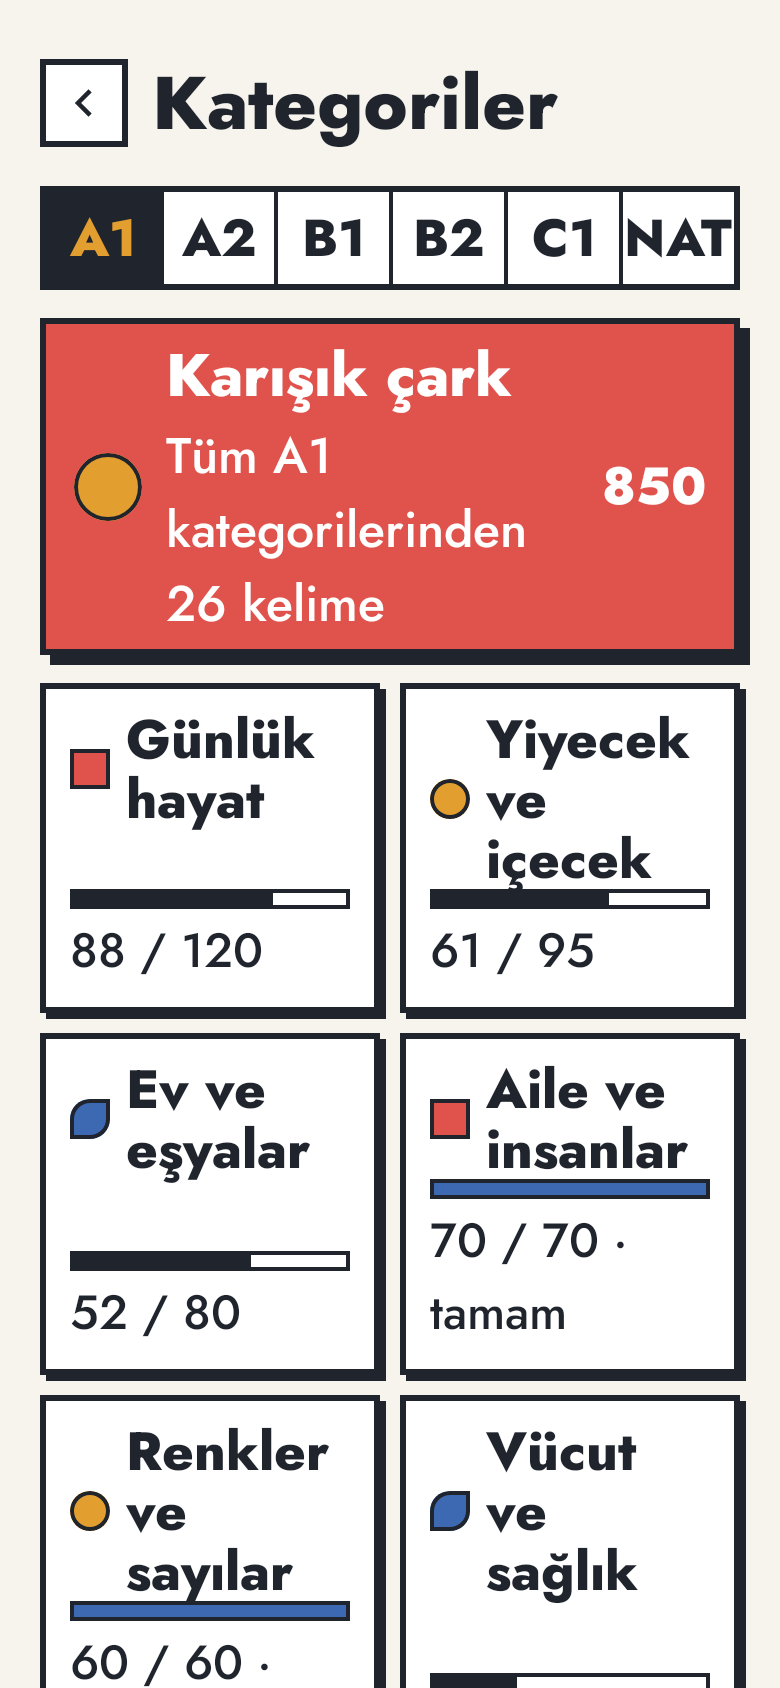
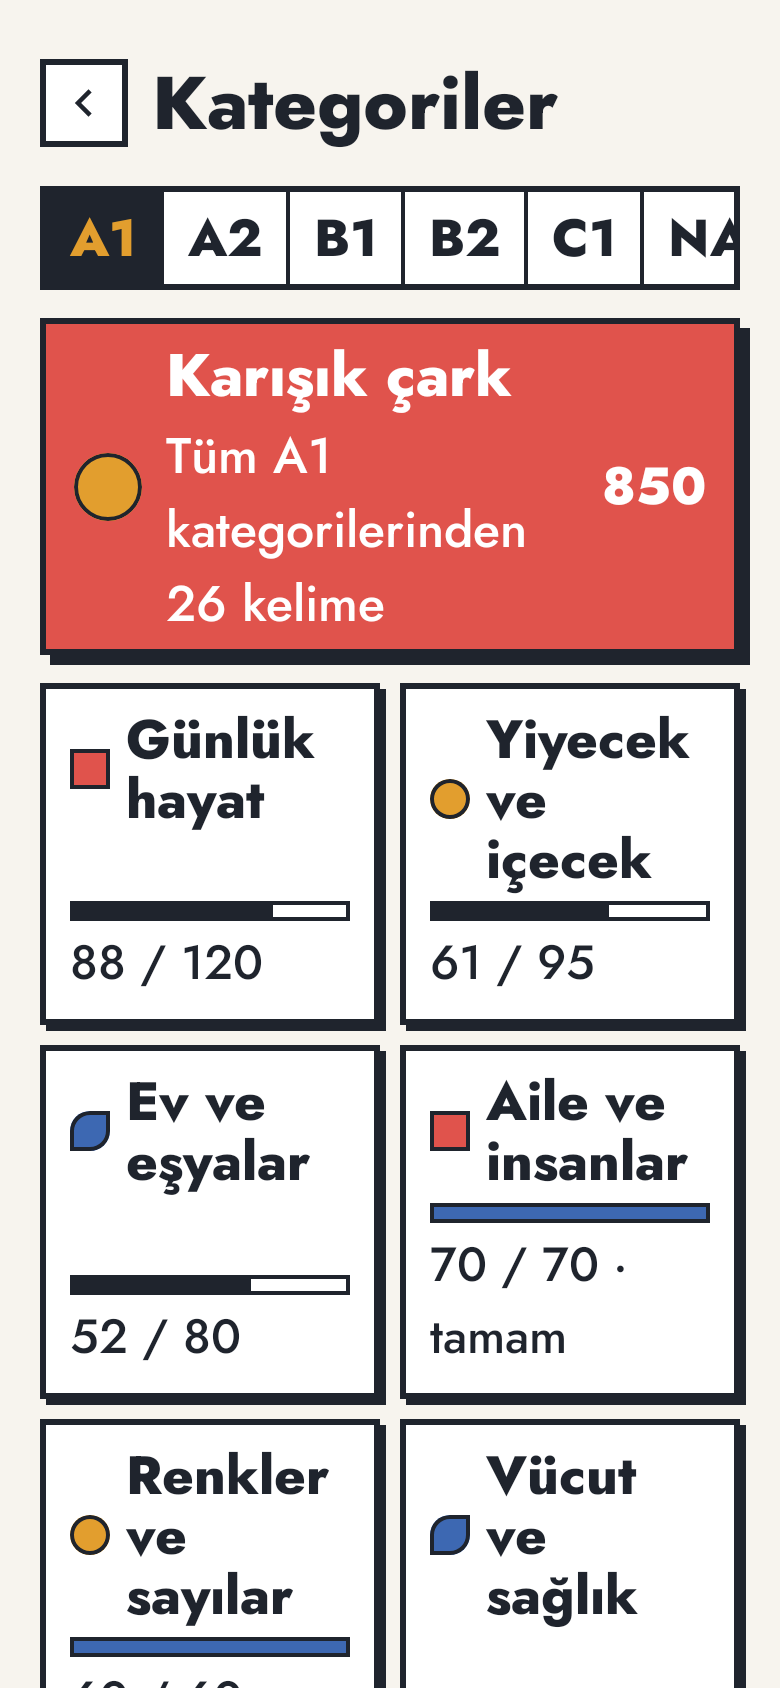
fix(a11y): contrast and large-font spacing follow-ups
- Add LexiColors.redText #D42D25 (hue/saturation of red E0534C, darkened):
  5.00:1 on white FFFFFF, 4.55:1 on cream F7F4EE. Text-only token.
- TimerBar warning counter: redText on the white track, ink (two-layer,
  clipped to the fill) where the red fill runs under it; motion #8 colour
  change preserved. New golden TimerBarWarningOverFill; timer warning
  goldens re-recorded.
- Selected level card and mixed-wheel card are white on red fill: accepted
  exception, documented in screen-map.md with the used-key/disabled ones.
- 200% font: gap between category name and progress bar (above 1.5x only),
  one-letter weekday chart labels from 1.5x (TR/EN resources), scrollable
  level tabs on Categories above 1.75x. 1.0 and 1.3 goldens unchanged.

Changed region(s): [[0.0308, 0.5237, 0.9538, 1.0], [0.2462, 0.0924, 0.9538, 0.1848]]

diff --git a/core/designsystem/src/commonMain/kotlin/dev/talhabayhan/lexi/core/designsystem/component/Controls.kt b/core/designsystem/src/commonMain/kotlin/dev/talhabayhan/lexi/core/designsystem/component/Controls.kt
@@ -2,6 +2,7 @@ package dev.talhabayhan.lexi.core.designsystem.component
 
 import androidx.compose.foundation.BorderStroke
 import androidx.compose.foundation.background
+import androidx.compose.foundation.horizontalScroll
 import androidx.compose.foundation.layout.Arrangement
 import androidx.compose.foundation.layout.Box
 import androidx.compose.foundation.layout.Column
@@ -15,17 +16,23 @@ import androidx.compose.foundation.layout.offset
 import androidx.compose.foundation.layout.padding
 import androidx.compose.foundation.layout.size
 import androidx.compose.foundation.layout.width
+import androidx.compose.foundation.relocation.BringIntoViewRequester
+import androidx.compose.foundation.relocation.bringIntoViewRequester
+import androidx.compose.foundation.rememberScrollState
 import androidx.compose.foundation.selection.selectable
 import androidx.compose.foundation.selection.selectableGroup
 import androidx.compose.foundation.selection.toggleable
 import androidx.compose.material3.Text
 import androidx.compose.runtime.Composable
 import androidx.compose.runtime.Immutable
+import androidx.compose.runtime.LaunchedEffect
+import androidx.compose.runtime.remember
 import androidx.compose.ui.Alignment
 import androidx.compose.ui.Modifier
 import androidx.compose.ui.draw.drawBehind
 import androidx.compose.ui.geometry.Size
 import androidx.compose.ui.graphics.Color
+import androidx.compose.ui.platform.LocalDensity
 import androidx.compose.ui.semantics.ProgressBarRangeInfo
 import androidx.compose.ui.semantics.Role
 import androidx.compose.ui.semantics.contentDescription
@@ -71,11 +78,16 @@ public object ControlDefaults {
 
     /** Line height of a segment with a subtitle (`line-height: 1.1`). */
     internal const val SEGMENT_TWO_LINE_HEIGHT: Double = 1.1
+
+    /** System font scale above which a control that opted in ([SegmentedControl] `scrollable`) scrolls sideways. */
+    public const val SCROLL_FONT_SCALE: Float = 1.75f
 }
 
 /**
  * Segmented control: 3dp ink frame on white, equal segments separated by [dividerWidth] ink lines (part of the
  * segment, as the CSS `border-left`); selected = ink with yellow title (cream subtitle). Light haptic + tap on select.
+ * With [scrollable], font scales above [ControlDefaults.SCROLL_FONT_SCALE] let the segments keep their natural width
+ * and the row scroll sideways (the selected one is brought into view) instead of squeezing them against each other.
  */
 @Composable
 public fun SegmentedControl(
@@ -85,8 +97,15 @@ public fun SegmentedControl(
     modifier: Modifier = Modifier,
     height: Dp = ControlDefaults.SegmentHeight,
     dividerWidth: Dp = LexiTheme.borders.thin,
+    scrollable: Boolean = false,
 ) {
     val colors = LexiTheme.colors
+    val scrolling = scrollable && LocalDensity.current.fontScale > ControlDefaults.SCROLL_FONT_SCALE
+    val scrollState = rememberScrollState()
+    val requesters = remember(segments.size) { List(segments.size) { BringIntoViewRequester() } }
+    if (scrolling) {
+        LaunchedEffect(selectedIndex) { requesters.getOrNull(selectedIndex)?.bringIntoView() }
+    }
     val typography = LexiTheme.typography
     val haptics = LocalHaptics.current
     val sounds = LocalSoundPlayer.current
@@ -95,13 +114,15 @@ public fun SegmentedControl(
         modifier = modifier
             .height(IntrinsicSize.Min)
             .lexiSurface(colors.white, BorderStroke(LexiTheme.borders.regular, colors.ink))
-            .selectableGroup(),
+            .selectableGroup()
+            .then(if (scrolling) Modifier.horizontalScroll(scrollState) else Modifier),
     ) {
         segments.forEachIndexed { index, segment ->
             val selected = index == selectedIndex
             Column(
                 modifier = Modifier
-                    .weight(1f)
+                    .then(if (scrolling) Modifier else Modifier.weight(1f))
+                    .bringIntoViewRequester(requesters[index])
                     .fillMaxHeight()
                     .heightIn(min = height)
                     .then(if (index > 0) Modifier.leftBorder(dividerWidth, colors.ink) else Modifier)
@@ -110,7 +131,8 @@ public fun SegmentedControl(
                         haptics.perform(HapticKind.Light)
                         sounds.play(SoundEffect.Tap)
                         onSelect(index)
-                    },
+                    }
+                    .then(if (scrolling) Modifier.padding(horizontal = LexiTheme.dimens.gap12) else Modifier),
                 horizontalAlignment = Alignment.CenterHorizontally,
                 verticalArrangement = Arrangement.Center,
             ) {

diff --git a/feature/stats/src/commonMain/kotlin/dev/talhabayhan/lexi/feature/stats/StatsScreen.kt b/feature/stats/src/commonMain/kotlin/dev/talhabayhan/lexi/feature/stats/StatsScreen.kt
@@ -18,6 +18,7 @@ import androidx.compose.material3.Text
 import androidx.compose.runtime.Composable
 import androidx.compose.ui.Alignment
 import androidx.compose.ui.Modifier
+import androidx.compose.ui.platform.LocalDensity
 import androidx.compose.ui.tooling.preview.Preview
 import dev.talhabayhan.lexi.core.designsystem.component.BarChart
 import dev.talhabayhan.lexi.core.designsystem.component.BarChartDefaults
@@ -42,6 +43,13 @@ import dev.talhabayhan.lexi.feature.stats.generated.resources.stats_back
 import dev.talhabayhan.lexi.feature.stats.generated.resources.stats_day_fri
 import dev.talhabayhan.lexi.feature.stats.generated.resources.stats_day_mon
 import dev.talhabayhan.lexi.feature.stats.generated.resources.stats_day_sat
+import dev.talhabayhan.lexi.feature.stats.generated.resources.stats_day_short_fri
+import dev.talhabayhan.lexi.feature.stats.generated.resources.stats_day_short_mon
+import dev.talhabayhan.lexi.feature.stats.generated.resources.stats_day_short_sat
+import dev.talhabayhan.lexi.feature.stats.generated.resources.stats_day_short_sun
+import dev.talhabayhan.lexi.feature.stats.generated.resources.stats_day_short_thu
+import dev.talhabayhan.lexi.feature.stats.generated.resources.stats_day_short_tue
+import dev.talhabayhan.lexi.feature.stats.generated.resources.stats_day_short_wed
 import dev.talhabayhan.lexi.feature.stats.generated.resources.stats_day_sun
 import dev.talhabayhan.lexi.feature.stats.generated.resources.stats_day_thu
 import dev.talhabayhan.lexi.feature.stats.generated.resources.stats_day_tue
@@ -171,6 +179,12 @@ private fun WeekCard(state: StatsUiState) {
     val colors = LexiTheme.colors
     val typography = LexiTheme.typography
     val labels = state.week.map { stringResource(it.weekday.dayRes()) }
+    // Three-letter names run into each other at large font sizes: one letter each there (the description keeps the full names).
+    val chartLabels = if (LocalDensity.current.fontScale >= SHORT_DAY_FONT_SCALE) {
+        state.week.map { stringResource(it.weekday.shortDayRes()) }
+    } else {
+        labels
+    }
     val values = state.week.map { it.words }
     Column(
         modifier = Modifier
@@ -193,7 +207,7 @@ private fun WeekCard(state: StatsUiState) {
         }
         BarChart(
             values = values,
-            labels = labels,
+            labels = chartLabels,
             highlightIndex = values.lastIndex,
             contentDescription = stringResource(
                 Res.string.stats_week_description,
@@ -249,6 +263,19 @@ private fun HardestLetters(state: StatsUiState) {
             }
         }
     }
+}
+
+/** System font scale from which the chart's weekday names shrink to one letter. */
+private const val SHORT_DAY_FONT_SCALE = 1.5f
+
+private fun Int.shortDayRes(): StringResource = when (this) {
+    0 -> Res.string.stats_day_short_mon
+    1 -> Res.string.stats_day_short_tue
+    2 -> Res.string.stats_day_short_wed
+    3 -> Res.string.stats_day_short_thu
+    4 -> Res.string.stats_day_short_fri
+    5 -> Res.string.stats_day_short_sat
+    else -> Res.string.stats_day_short_sun
 }
 
 private fun Int.dayRes(): StringResource = when (this) {

diff --git a/core/designsystem/src/commonMain/kotlin/dev/talhabayhan/lexi/core/designsystem/component/GameHud.kt b/core/designsystem/src/commonMain/kotlin/dev/talhabayhan/lexi/core/designsystem/component/GameHud.kt
@@ -25,8 +25,10 @@ import androidx.compose.runtime.remember
 import androidx.compose.ui.Alignment
 import androidx.compose.ui.Modifier
 import androidx.compose.ui.draw.drawBehind
+import androidx.compose.ui.draw.drawWithContent
 import androidx.compose.ui.geometry.Offset
 import androidx.compose.ui.geometry.Size
+import androidx.compose.ui.graphics.drawscope.clipRect
 import androidx.compose.ui.graphics.graphicsLayer
 import androidx.compose.ui.platform.LocalDensity
 import androidx.compose.ui.semantics.clearAndSetSemantics
@@ -328,17 +330,37 @@ public fun TimerBar(
                 }
             },
         )
+        val counterModifier = Modifier
+            .padding(start = GameHudDefaults.TimerTextInset)
+            .graphicsLayer {
+                scaleX = pulse.value
+                scaleY = pulse.value
+            }
+        // Warning: the counter is the darker red on the white track and ink where the red fill runs under it (two
+        // layers, the second clipped to the fill), so it stays readable at any progress.
         Text(
             text = timeText,
             style = LexiTheme.typography.heading18,
-            color = if (warning) colors.red else colors.ink,
-            modifier = Modifier
-                .padding(start = GameHudDefaults.TimerTextInset)
-                .graphicsLayer {
-                    scaleX = pulse.value
-                    scaleY = pulse.value
-                },
+            color = if (warning) colors.redText else colors.ink,
+            modifier = counterModifier,
         )
+        if (warning) {
+            Box(
+                Modifier.fillMaxSize().clearAndSetSemantics {}.drawWithContent {
+                    val width = (size.width * progress().coerceIn(0f, 1f)).roundToInt().toFloat()
+                    val edge = minOf(border.toPx().roundToInt().toFloat(), width)
+                    clipRect(right = width - edge) { this@drawWithContent.drawContent() }
+                },
+                contentAlignment = Alignment.CenterStart,
+            ) {
+                Text(
+                    text = timeText,
+                    style = LexiTheme.typography.heading18,
+                    color = colors.ink,
+                    modifier = counterModifier,
+                )
+            }
+        }
     }
 }
 

diff --git a/core/designsystem/src/androidHostTest/kotlin/dev/talhabayhan/lexi/core/designsystem/component/GameSampleScreenshotTest.kt b/core/designsystem/src/androidHostTest/kotlin/dev/talhabayhan/lexi/core/designsystem/component/GameSampleScreenshotTest.kt
@@ -54,6 +54,23 @@ class GameSampleScreenshotTest {
             }
         }
     }
+
+    /** Warning counter with the red fill under it (ink there, darker red on the white track): readable at any progress. */
+    @Test
+    fun timerWarningOverFill() {
+        captureRoboImage("src/androidHostTest/screenshots/TimerBarWarningOverFill.png") {
+            LexiTheme(reducedMotion = true) {
+                Column(
+                    modifier = Modifier.background(LexiTheme.colors.cream).padding(20.dp),
+                    verticalArrangement = Arrangement.spacedBy(16.dp),
+                ) {
+                    TimerBar(progress = 0.9f, timeText = "0:09", warning = true, modifier = Modifier.width(260.dp))
+                    TimerBar(progress = 0.2f, timeText = "0:09", warning = true, modifier = Modifier.width(260.dp))
+                    TimerBar(progress = 0.12f, timeText = "0:09", warning = true, modifier = Modifier.width(260.dp))
+                }
+            }
+        }
+    }
 }
 
 internal val GameWheelLetters: List<WheelLetterUi> = ('A'..'Z').mapIndexed { i, c ->

diff --git a/core/designsystem/src/commonMain/kotlin/dev/talhabayhan/lexi/core/designsystem/component/CategoryCards.kt b/core/designsystem/src/commonMain/kotlin/dev/talhabayhan/lexi/core/designsystem/component/CategoryCards.kt
@@ -79,7 +79,14 @@ public fun CategoryCard(
             verticalArrangement = Arrangement.SpaceBetween,
         ) {
             Row(
-                modifier = Modifier.fillMaxWidth(),
+                // Keeps a tall name off the progress bar at the largest font sizes only; the design size is unchanged.
+                modifier = Modifier.fillMaxWidth().padding(
+                    bottom = if (LocalDensity.current.fontScale > CategoryCardDefaults.WRAP_FONT_SCALE) {
+                        LexiTheme.dimens.gap6
+                    } else {
+                        0.dp
+                    },
+                ),
                 horizontalArrangement = Arrangement.spacedBy(LexiTheme.dimens.gap8),
                 verticalAlignment = Alignment.CenterVertically,
             ) {

diff --git a/core/designsystem/src/commonMain/kotlin/dev/talhabayhan/lexi/core/designsystem/theme/LexiColors.kt b/core/designsystem/src/commonMain/kotlin/dev/talhabayhan/lexi/core/designsystem/theme/LexiColors.kt
@@ -19,6 +19,8 @@ public class LexiColors internal constructor(
     public val ink: Color,
     /** Primary CTA, **wrong** state, active answer-slot border. */
     public val red: Color,
+    /** Small red TEXT on white/cream (>= 4.5:1 on both); [red] itself is for fills only. */
+    public val redText: Color,
     /** **Correct** state, score badge, progress fill, toggle on. */
     public val blue: Color,
     /** **Pass** state, timer bar, highlights, selected-segment text on ink. */
@@ -42,6 +44,7 @@ internal val LightLexiColors: LexiColors = LexiColors(
     white = Color(0xFFFFFFFF),
     ink = Ink,
     red = Color(0xFFE0534C),
+    redText = Color(0xFFD42D25),
     blue = Color(0xFF3D68B2),
     yellow = Color(0xFFE29E2E),
     inkMuted = Color(0xFF606673),

diff --git a/feature/levels/src/commonMain/kotlin/dev/talhabayhan/lexi/feature/levels/CategoriesScreen.kt b/feature/levels/src/commonMain/kotlin/dev/talhabayhan/lexi/feature/levels/CategoriesScreen.kt
@@ -95,6 +95,7 @@ internal fun CategoriesScreen(
             selectedIndex = Level.entries.indexOf(state.level),
             onSelect = { onIntent(CategoriesIntent.SelectLevel(Level.entries[it])) },
             modifier = Modifier.fillMaxWidth(),
+            scrollable = true,
         )
         if (state.isLoaded) {
             if (state.hasError) {

diff --git a/docs/design/motion.md b/docs/design/motion.md
@@ -62,7 +62,7 @@ Implemented in `feature:game` (`GameMotion`, `GameMotionLayer`, `GameFeedback`) 
   from above (`mechanical`).
 - #7: burst and badge sit in the HUD row next to the score circle (design debt, `screen-map.md`); the badge pops in 420 ms, holds 720 ms
   and shrinks to 0 in 240 ms (`aCombo`). Reduced motion: the badge rests at −4° for 420 + 720 ms, no burst.
-- #8: `TimerBar` pulses whenever the counter changes (and when the warning starts), not on first composition, so a
+- #8: in the warning the counter is `redText` on the white track and ink where the red fill runs under it (clipped second layer), so it is readable at any progress. `TimerBar` pulses whenever the counter changes (and when the warning starts), not on first composition, so a
   paused or restored warning does not pulse.
 - #11: the result screen's share error toast slides down 16dp in 180 ms (`mechanical`) and goes after 2.5 s (the home daily-gift notice stays 6 s so screen-reader users can reach it); reduced
   motion: shown in place, no slide. (The home daily-gift notice shows the toast without the slide.)

diff --git a/docs/design/tokens.md b/docs/design/tokens.md
@@ -10,6 +10,7 @@ Unit mapping: **1 CSS px in the design HTML = 1.dp in Compose; font-size px = sp
 | `white` | `#FFFFFF` | cards, keys, inputs, list rows |
 | `ink` | `#1F242D` | text, all borders, hard shadows, "current" letter, selected segment |
 | `red` | `#E0534C` | primary CTA (OYNA, BAŞLA), **wrong** state, active answer-slot border |
+| `redText` | `#D42D25` | small red TEXT on white/cream only (5.00:1 on white, 4.55:1 on cream); `red` stays for fills |
 | `blue` | `#3D68B2` | **correct** state, score badge, progress fill, toggle on |
 | `yellow` | `#E29E2E` | **pass** state, timer bar, highlights, selected-segment text on ink |
 | `inkMuted` | `#606673` | placeholder, disabled text |

diff --git a/docs/design/screen-map.md b/docs/design/screen-map.md
@@ -114,3 +114,8 @@ before shipping.
   layouts later.
 - Font scale: honor system font size up to 1.3× on lists; the whole game board (HUD, wheel, clue, slots, keys,
   actions) is capped at 1.15×; its fixed heights grow with the capped scale.
+
+## Accepted contrast exceptions
+
+- White text on a `red` fill (wrong wheel letter, selected level card, mixed-wheel card, wrong slot): below 4.5:1 but kept as designed; small red text on light backgrounds uses `redText` instead.
+- Used key letter in `borderMuted` (2.95:1) and disabled/inactive elements: inactive UI is WCAG-exempt.
